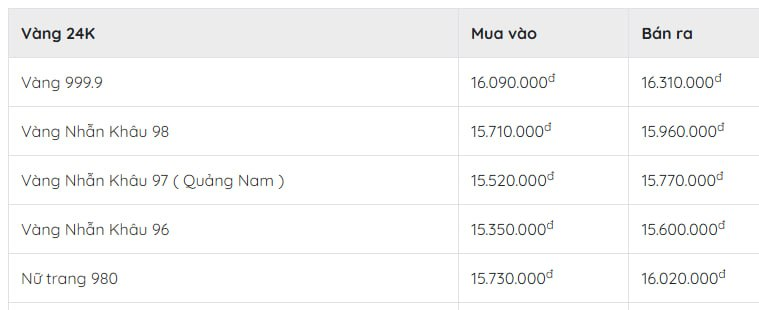
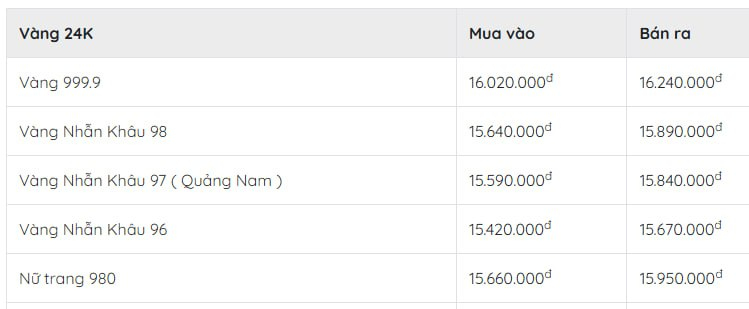
Update kim-khanh-viet-hung price image (11:10)

diff --git a/app/data/goldShops.ts b/app/data/goldShops.ts
@@ -26,7 +26,7 @@ export const GOLD_SHOPS: GoldShop[] = [
     name: "Kim Khánh Việt Hùng",
     location: "Đà Nẵng",
     image: "images/kim-khanh-viet-hung.jpg",
-    updatedAt: "10:54",
+    updatedAt: "11:10",
   },
   {
     id: "tru-cam-le",
